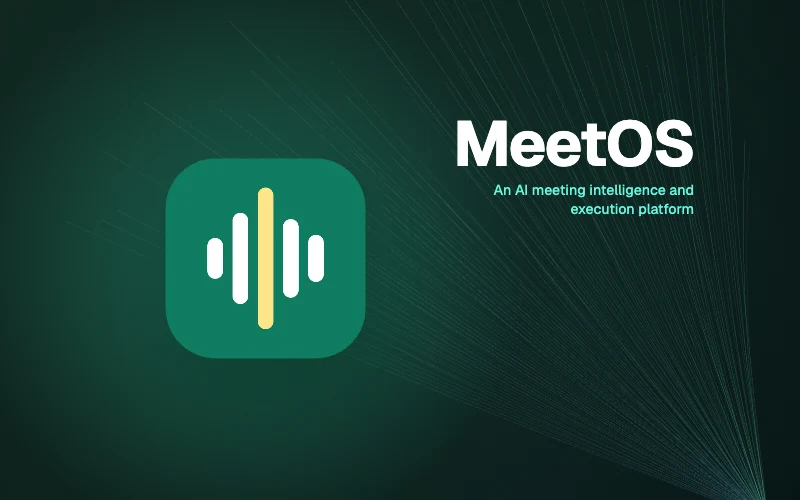
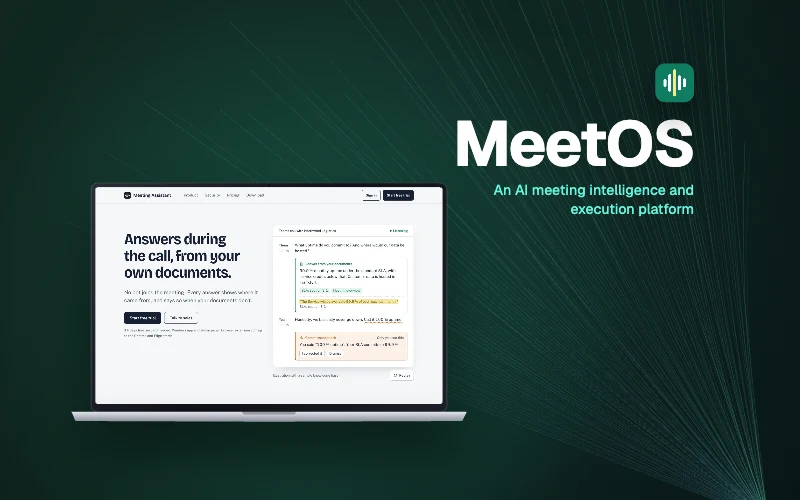
MeetOS: product screenshot cover, five modes, in-call answers
- Cover, card and share image now show the product on a laptop (from the
  supplied screenshot) with the MeetOS app icon above the title; the
  composer can add an app-icon logo to device covers (mockup.logo).
- Features list the five modes: sales call, team meeting, customer
  support, interview preparation and live interpreter.
- Approach mentions answers from the company's own documents with
  sources, the private commitment check and that no bot joins the call.

Changed region(s): [[0.0938, 0.3, 0.5938, 0.9], [0.8125, 0.12, 0.875, 0.21]]

diff --git a/ru/work/meetos/index.html b/ru/work/meetos/index.html
@@ -27,12 +27,12 @@
 <meta property="og:image:type" content="image/jpeg">
 <meta property="og:image:width" content="1200">
 <meta property="og:image:height" content="630">
-<meta property="og:image:alt" content="Логотип MeetOS — звуковая волна на зелёной иконке приложения">
+<meta property="og:image:alt" content="Приложение MeetOS на ноутбуке отвечает на вопрос по документам компании во время звонка в Teams">
 <meta name="twitter:card" content="summary_large_image">
 <meta name="twitter:title" content="MeetOS — ИИ-платформа, которая превращает встречи в результат">
 <meta name="twitter:description" content="MeetOS — ИИ-платформа, которая делает встречи — внутренние и с клиентами — результативными. Расширение браузера и приложение для Windows подключаются к…">
 <meta name="twitter:image" content="https://ailovedigital.com/assets/images/work/meetos/og.jpg">
-<meta name="twitter:image:alt" content="Логотип MeetOS — звуковая волна на зелёной иконке приложения">
+<meta name="twitter:image:alt" content="Приложение MeetOS на ноутбуке отвечает на вопрос по документам компании во время звонка в Teams">
 <link rel="icon" href="../../../assets/icons/favicon.svg" type="image/svg+xml">
 <link rel="icon" href="../../../assets/icons/favicon-32.png" sizes="32x32" type="image/png">
 <link rel="icon" href="../../../assets/icons/favicon-48.png" sizes="48x48" type="image/png">
@@ -225,7 +225,7 @@
 </header>
 
 <div class="case-cover">
-  <img src="../../../assets/images/work/meetos/cover.webp" width="1600" height="1000" alt="Логотип MeetOS — звуковая волна на зелёной иконке приложения" fetchpriority="high" decoding="async">
+  <img src="../../../assets/images/work/meetos/cover.webp" width="1600" height="1000" alt="Приложение MeetOS на ноутбуке отвечает на вопрос по документам компании во время звонка в Teams" fetchpriority="high" decoding="async">
 </div>
 
 <section class="ald-stats-band" aria-label="MeetOS в цифрах">
@@ -248,7 +248,7 @@
     </div>
     <div class="case-block case-rv">
       <h2 class="ald-eyebrow has-idx case-label"><span class="ald-idx">03</span> / Наш подход</h2>
-      <p class="case-text">MeetOS охватывает весь цикл встречи. До звонка готовит контекст об участниках и теме; во время звонка расширение браузера или приложение для Windows — оно захватывает звук звонка и микрофон — передают поток в многоязычную расшифровку и режим живого переводчика; после — кратко излагает решения и договорённости, выделяет задачи, назначает ответственных и ведёт сроки, напоминания и контроль исполнения в инструментах, которыми команда уже пользуется.</p>
+      <p class="case-text">MeetOS охватывает весь цикл встречи. До звонка готовит контекст об участниках и теме. Во время звонка расширение браузера или приложение для Windows — оно захватывает звук звонка и микрофон, поэтому никакой бот к встрече не подключается, — передают поток в многоязычную расшифровку; ассистент отвечает на вопросы по документам компании, показывает источник каждого ответа и незаметно для собеседника предупреждает, если сказанное им противоречит документам. После встречи кратко излагает решения и договорённости, выделяет задачи, назначает ответственных и ведёт сроки, напоминания и контроль исполнения в инструментах, которыми команда уже пользуется.</p>
     </div>
   </div>
 </section>
@@ -273,7 +273,7 @@
     <ul class="case-features">
       <li class="ald-value case-rv"><div class="case-feature-n">01</div><h3 class="ald-value-t">Работает с любым звонком</h3><p class="ald-value-d">Google Meet, Zoom и Microsoft Teams — через расширение браузера на Windows, Mac, Linux и Chromebook; приложение для Windows захватывает звук звонка и микрофон. Отдельное приложение для Mac в планах.</p></li>
       <li class="ald-value case-rv"><div class="case-feature-n">02</div><h3 class="ald-value-t">Многоязычная расшифровка</h3><p class="ald-value-d">Расшифровывает звонки на английском, испанском, французском, немецком, русском, арабском и других языках; в регионе США поддерживаются азербайджанский и турецкий.</p></li>
-      <li class="ald-value case-rv"><div class="case-feature-n">03</div><h3 class="ald-value-t">Режим живого переводчика</h3><p class="ald-value-d">Переводит разговор в реальном времени, чтобы каждый участник следил за ним на своём языке.</p></li>
+      <li class="ald-value case-rv"><div class="case-feature-n">03</div><h3 class="ald-value-t">Пять режимов встреч</h3><p class="ald-value-d">Звонок продаж, командная встреча, поддержка клиентов, подготовка к собеседованию и живой переводчик, который переводит разговор в реальном времени.</p></li>
       <li class="ald-value case-rv"><div class="case-feature-n">04</div><h3 class="ald-value-t">Итоги и решения</h3><p class="ald-value-d">Кратко излагает основное обсуждение, решения и договорённости и ведёт их журнал с ответственными и статусом.</p></li>
       <li class="ald-value case-rv"><div class="case-feature-n">05</div><h3 class="ald-value-t">Задачи в ваши инструменты</h3><p class="ald-value-d">Отправляет задачи и напоминания в Slack, Teams, Jira, Asana, вебхуки и календари Google и Microsoft; HubSpot и Salesforce подключаются вместе с пилотом.</p></li>
       <li class="ald-value case-rv"><div class="case-feature-n">06</div><h3 class="ald-value-t">Конфиденциальность по умолчанию</h3><p class="ald-value-d">Персональные данные на азербайджанском — ФИН, IBAN и номера телефонов — маскируются автоматически.</p></li>

diff --git a/az/work/meetos/index.html b/az/work/meetos/index.html
@@ -27,12 +27,12 @@
 <meta property="og:image:type" content="image/jpeg">
 <meta property="og:image:width" content="1200">
 <meta property="og:image:height" content="630">
-<meta property="og:image:alt" content="MeetOS loqosu — yaşıl tətbiq ikonunda səs dalğası işarəsi">
+<meta property="og:image:alt" content="Noutbukda MeetOS proqramı Teams zəngi zamanı şirkət sənədlərindən suala cavab verir">
 <meta name="twitter:card" content="summary_large_image">
 <meta name="twitter:title" content="MeetOS — Görüşləri real biznes nəticələrinə çevirən platforma">
 <meta name="twitter:description" content="MeetOS şirkətdaxili və müştərilərlə keçirilən görüşləri nəticəli edən süni intellekt platformasıdır. Brauzer əlavəsi və Windows proqramı Google Meet, Zoom…">
 <meta name="twitter:image" content="https://ailovedigital.com/assets/images/work/meetos/og.jpg">
-<meta name="twitter:image:alt" content="MeetOS loqosu — yaşıl tətbiq ikonunda səs dalğası işarəsi">
+<meta name="twitter:image:alt" content="Noutbukda MeetOS proqramı Teams zəngi zamanı şirkət sənədlərindən suala cavab verir">
 <link rel="icon" href="../../../assets/icons/favicon.svg" type="image/svg+xml">
 <link rel="icon" href="../../../assets/icons/favicon-32.png" sizes="32x32" type="image/png">
 <link rel="icon" href="../../../assets/icons/favicon-48.png" sizes="48x48" type="image/png">
@@ -225,7 +225,7 @@
 </header>
 
 <div class="case-cover">
-  <img src="../../../assets/images/work/meetos/cover.webp" width="1600" height="1000" alt="MeetOS loqosu — yaşıl tətbiq ikonunda səs dalğası işarəsi" fetchpriority="high" decoding="async">
+  <img src="../../../assets/images/work/meetos/cover.webp" width="1600" height="1000" alt="Noutbukda MeetOS proqramı Teams zəngi zamanı şirkət sənədlərindən suala cavab verir" fetchpriority="high" decoding="async">
 </div>
 
 <section class="ald-stats-band" aria-label="MeetOS rəqəmlərlə">
@@ -248,7 +248,7 @@
     </div>
     <div class="case-block case-rv">
       <h2 class="ald-eyebrow has-idx case-label"><span class="ald-idx">03</span> / Yanaşmamız</h2>
-      <p class="case-text">MeetOS görüşün bütün dövrünü əhatə edir. Zəngdən əvvəl iştirakçılar və mövzu üzrə kontekst hazırlayır; zəng zamanı brauzer əlavəsi və ya Windows proqramı — o, zəngin səsini və mikrofonu tutur — çoxdilli transkripsiyaya və canlı tərcüməçi rejiminə ötürür; sonra qərarları və razılaşmaları xülasə edir, tapşırıqları çıxarır, məsul şəxsləri təyin edir və deadline, xatırlatma və follow-up proseslərini komandanın artıq istifadə etdiyi alətlərdə aparır.</p>
+      <p class="case-text">MeetOS görüşün bütün dövrünü əhatə edir. Zəngdən əvvəl iştirakçılar və mövzu üzrə kontekst hazırlayır. Zəng zamanı brauzer əlavəsi və ya Windows proqramı — o, zəngin səsini və mikrofonu tutur, ona görə görüşə heç bir bot qoşulmur — çoxdilli transkripsiyaya ötürür; köməkçi sualları şirkətin öz sənədlərinə əsasən cavablandırır, hər cavabın mənbəyini göstərir və deyilən söz sənədlərə zidd olanda bunu yalnız sizə göstərərək xəbərdar edir. Görüşdən sonra qərarları və razılaşmaları xülasə edir, tapşırıqları çıxarır, məsul şəxsləri təyin edir və deadline, xatırlatma və follow-up proseslərini komandanın artıq istifadə etdiyi alətlərdə aparır.</p>
     </div>
   </div>
 </section>
@@ -273,7 +273,7 @@
     <ul class="case-features">
       <li class="ald-value case-rv"><div class="case-feature-n">01</div><h3 class="ald-value-t">Hər zənglə işləyir</h3><p class="ald-value-d">Google Meet, Zoom və Microsoft Teams — Windows, Mac, Linux və Chromebook-da brauzer əlavəsi ilə; Windows proqramı zəngin səsini və mikrofonu tutur. Mac üçün ayrıca proqram planlaşdırılır.</p></li>
       <li class="ald-value case-rv"><div class="case-feature-n">02</div><h3 class="ald-value-t">Çoxdilli transkripsiya</h3><p class="ald-value-d">Zəngləri ingilis, ispan, fransız, alman, rus, ərəb və digər dillərdə transkripsiya edir; ABŞ regionunda Azərbaycan və türk dilləri də dəstəklənir.</p></li>
-      <li class="ald-value case-rv"><div class="case-feature-n">03</div><h3 class="ald-value-t">Canlı tərcüməçi rejimi</h3><p class="ald-value-d">Söhbəti real vaxtda tərcümə edir ki, hər iştirakçı onu öz dilində izləyə bilsin.</p></li>
+      <li class="ald-value case-rv"><div class="case-feature-n">03</div><h3 class="ald-value-t">Beş görüş rejimi</h3><p class="ald-value-d">Satış zəngi, komanda görüşü, müştəri dəstəyi, müsahibə hazırlığı və söhbəti real vaxtda tərcümə edən canlı tərcüməçi.</p></li>
       <li class="ald-value case-rv"><div class="case-feature-n">04</div><h3 class="ald-value-t">Xülasə və qərarlar</h3><p class="ald-value-d">Əsas müzakirələri, qərarları və razılaşmaları xülasə edir və onların məsul şəxs və vəziyyətlə jurnalını aparır.</p></li>
       <li class="ald-value case-rv"><div class="case-feature-n">05</div><h3 class="ald-value-t">Tapşırıqlar alətlərinizə</h3><p class="ald-value-d">Tapşırıqları və xatırlatmaları Slack, Teams, Jira, Asana, webhook və Google və Microsoft təqvimlərinə göndərir; HubSpot və Salesforce pilotla aktivləşir.</p></li>
       <li class="ald-value case-rv"><div class="case-feature-n">06</div><h3 class="ald-value-t">Defolt olaraq məxfilik</h3><p class="ald-value-d">Azərbaycan dilində şəxsi məlumatlar — FİN, IBAN və telefon nömrələri — avtomatik maskalanır.</p></li>

diff --git a/work/meetos/index.html b/work/meetos/index.html
@@ -27,12 +27,12 @@
 <meta property="og:image:type" content="image/jpeg">
 <meta property="og:image:width" content="1200">
 <meta property="og:image:height" content="630">
-<meta property="og:image:alt" content="The MeetOS logo — a sound-wave mark on a green app icon">
+<meta property="og:image:alt" content="The MeetOS app on a laptop, answering a question from the company's documents during a Teams call">
 <meta name="twitter:card" content="summary_large_image">
 <meta name="twitter:title" content="MeetOS — AI platform that turns meetings into real business results">
 <meta name="twitter:description" content="MeetOS is an AI platform that makes meetings — internal ones and those with clients — produce results. A browser extension and a Windows app capture…">
 <meta name="twitter:image" content="https://ailovedigital.com/assets/images/work/meetos/og.jpg">
-<meta name="twitter:image:alt" content="The MeetOS logo — a sound-wave mark on a green app icon">
+<meta name="twitter:image:alt" content="The MeetOS app on a laptop, answering a question from the company's documents during a Teams call">
 <link rel="icon" href="../../assets/icons/favicon.svg" type="image/svg+xml">
 <link rel="icon" href="../../assets/icons/favicon-32.png" sizes="32x32" type="image/png">
 <link rel="icon" href="../../assets/icons/favicon-48.png" sizes="48x48" type="image/png">
@@ -225,7 +225,7 @@
 </header>
 
 <div class="case-cover">
-  <img src="../../assets/images/work/meetos/cover.webp" width="1600" height="1000" alt="The MeetOS logo — a sound-wave mark on a green app icon" fetchpriority="high" decoding="async">
+  <img src="../../assets/images/work/meetos/cover.webp" width="1600" height="1000" alt="The MeetOS app on a laptop, answering a question from the company's documents during a Teams call" fetchpriority="high" decoding="async">
 </div>
 
 <section class="ald-stats-band" aria-label="MeetOS in numbers">
@@ -248,7 +248,7 @@
     </div>
     <div class="case-block case-rv">
       <h2 class="ald-eyebrow has-idx case-label"><span class="ald-idx">03</span> / Our approach</h2>
-      <p class="case-text">MeetOS covers the whole meeting cycle. Before a call it prepares context on the participants and the topic; during it, the browser extension or the Windows app — which captures the call audio and the microphone — feeds multilingual transcription and a live interpreter mode; afterwards it summarises decisions and agreements, extracts tasks, assigns owners and runs deadlines, reminders and follow-ups in the tools the team already uses.</p>
+      <p class="case-text">MeetOS covers the whole meeting cycle. Before a call it prepares context on the participants and the topic. During it, the browser extension or the Windows app — which captures the call audio and the microphone, so no bot joins the meeting — feeds multilingual transcription; the assistant answers questions from the company's own documents, shows the source of every answer and privately flags a statement that contradicts them. Afterwards it summarises decisions and agreements, extracts tasks, assigns owners and runs deadlines, reminders and follow-ups in the tools the team already uses.</p>
     </div>
   </div>
 </section>
@@ -273,7 +273,7 @@
     <ul class="case-features">
       <li class="ald-value case-rv"><div class="case-feature-n">01</div><h3 class="ald-value-t">Works with every call</h3><p class="ald-value-d">Google Meet, Zoom and Microsoft Teams through a browser extension on Windows, Mac, Linux and Chromebook; the Windows app captures the call audio and the microphone. A dedicated Mac app is planned.</p></li>
       <li class="ald-value case-rv"><div class="case-feature-n">02</div><h3 class="ald-value-t">Multilingual transcription</h3><p class="ald-value-d">Transcribes calls in English, Spanish, French, German, Russian, Arabic and more; Azerbaijani and Turkish are supported in the US region.</p></li>
-      <li class="ald-value case-rv"><div class="case-feature-n">03</div><h3 class="ald-value-t">Live interpreter mode</h3><p class="ald-value-d">Translates the conversation as it happens, so every participant can follow in their own language.</p></li>
+      <li class="ald-value case-rv"><div class="case-feature-n">03</div><h3 class="ald-value-t">Five meeting modes</h3><p class="ald-value-d">Sales call, team meeting, customer support, interview preparation and a live interpreter that translates the conversation as it happens.</p></li>
       <li class="ald-value case-rv"><div class="case-feature-n">04</div><h3 class="ald-value-t">Summaries and decisions</h3><p class="ald-value-d">Summarises the key discussion, decisions and agreements and keeps a log of them with owners and status.</p></li>
       <li class="ald-value case-rv"><div class="case-feature-n">05</div><h3 class="ald-value-t">Tasks into your tools</h3><p class="ald-value-d">Sends tasks and follow-ups to Slack, Teams, Jira, Asana, webhooks and Google or Microsoft calendars; HubSpot and Salesforce switch on with the pilot.</p></li>
       <li class="ald-value case-rv"><div class="case-feature-n">06</div><h3 class="ald-value-t">Privacy by default</h3><p class="ald-value-d">Personal data in Azerbaijani — national ID (FİN), IBAN and phone numbers — is masked automatically.</p></li>

diff --git a/tools/covers/compose.js b/tools/covers/compose.js
@@ -239,7 +239,8 @@ export async function prepare(p) {
   if (m.tablets) for (let i = 0; i < m.tablets.length; i++) src['tablet' + i] = await pick(m.tablets[i]);
   if (m.phones) for (let i = 0; i < m.phones.length; i++) src['phone' + i] = await pick(m.phones[i]);
   const all = Object.values(src).filter(Boolean);
-  return { src, hue: m.hue ?? dominantHue(all), set: deviceSet(m) };
+  const logo = m.logo ? await load(`../../assets/images/work/${p.slug}/${m.logo}`) : null; // optional app icon above the title
+  return { src, hue: m.hue ?? dominantHue(all), set: deviceSet(m), logo, radius: m.radius || 0.25 };
 }
 
 /**
@@ -261,6 +262,12 @@ export function render(canvas, p, prep, index, { width, scale, content = 1 }) {
   ctx.fillStyle = glow; ctx.fillRect(0, 0, W, H);
   ctx.save(); ctx.translate(W / 2, H / 2); ctx.scale(content, content); ctx.translate(-W / 2, -H / 2);
   title(ctx, p, W, pal, flip);
+  if (prep.logo) {
+    const s = 92, x = flip ? W - 100 - s : 100, y = 56, r = s * prep.radius;
+    ctx.save(); ctx.shadowColor = 'rgba(0,0,0,.45)'; ctx.shadowBlur = 30; ctx.shadowOffsetY = 12;
+    path(ctx, x, y, s, s, r); ctx.fillStyle = hsl(pal.h, 60, 30); ctx.fill(); ctx.restore();
+    ctx.save(); path(ctx, x + 0.5, y + 0.5, s - 1, s - 1, r); ctx.clip(); ctx.drawImage(prep.logo, x, y, s, s); ctx.restore();
+  }
   const items = layout(prep.set, W);
   // far-to-near order as listed; for flipped covers mirror the positions, not the screenshots
   for (const [kind, key, x, y, w] of items) {

diff --git a/ru/work/agentos/index.html b/ru/work/agentos/index.html
@@ -337,7 +337,7 @@
       </div>
     </li>
     <li class="hub-card case-rv">
-      <div class="hub-media"><img src="../../../assets/images/work/meetos.webp" width="800" height="500" alt="Логотип MeetOS — звуковая волна на зелёной иконке приложения" loading="lazy" decoding="async"></div>
+      <div class="hub-media"><img src="../../../assets/images/work/meetos.webp" width="800" height="500" alt="Приложение MeetOS на ноутбуке отвечает на вопрос по документам компании во время звонка в Teams" loading="lazy" decoding="async"></div>
       <div class="hub-body">
         <span class="ald-work-num">04</span>
         <h3 class="hub-name"><a href="../../../ru/work/meetos/" class="hub-link" lang="en">MeetOS</a></h3>

diff --git a/ru/work/dailoq/index.html b/ru/work/dailoq/index.html
@@ -341,7 +341,7 @@
       </div>
     </li>
     <li class="hub-card case-rv">
-      <div class="hub-media"><img src="../../../assets/images/work/meetos.webp" width="800" height="500" alt="Логотип MeetOS — звуковая волна на зелёной иконке приложения" loading="lazy" decoding="async"></div>
+      <div class="hub-media"><img src="../../../assets/images/work/meetos.webp" width="800" height="500" alt="Приложение MeetOS на ноутбуке отвечает на вопрос по документам компании во время звонка в Teams" loading="lazy" decoding="async"></div>
       <div class="hub-body">
         <span class="ald-work-num">04</span>
         <h3 class="hub-name"><a href="../../../ru/work/meetos/" class="hub-link" lang="en">MeetOS</a></h3>

diff --git a/ru/work/rootos/index.html b/ru/work/rootos/index.html
@@ -337,7 +337,7 @@
       </div>
     </li>
     <li class="hub-card case-rv">
-      <div class="hub-media"><img src="../../../assets/images/work/meetos.webp" width="800" height="500" alt="Логотип MeetOS — звуковая волна на зелёной иконке приложения" loading="lazy" decoding="async"></div>
+      <div class="hub-media"><img src="../../../assets/images/work/meetos.webp" width="800" height="500" alt="Приложение MeetOS на ноутбуке отвечает на вопрос по документам компании во время звонка в Teams" loading="lazy" decoding="async"></div>
       <div class="hub-body">
         <span class="ald-work-num">04</span>
         <h3 class="hub-name"><a href="../../../ru/work/meetos/" class="hub-link" lang="en">MeetOS</a></h3>

diff --git a/ru/work/index.html b/ru/work/index.html
@@ -358,7 +358,7 @@
       </div>
     </li>
     <li class="hub-card case-rv">
-      <div class="hub-media"><img src="../../assets/images/work/meetos.webp" width="800" height="500" alt="Логотип MeetOS — звуковая волна на зелёной иконке приложения" loading="lazy" decoding="async"></div>
+      <div class="hub-media"><img src="../../assets/images/work/meetos.webp" width="800" height="500" alt="Приложение MeetOS на ноутбуке отвечает на вопрос по документам компании во время звонка в Teams" loading="lazy" decoding="async"></div>
       <div class="hub-body">
         <span class="ald-work-num">04</span>
         <h2 class="hub-name"><a href="../../ru/work/meetos/" class="hub-link" lang="en">MeetOS</a></h2>

diff --git a/az/work/agentos/index.html b/az/work/agentos/index.html
@@ -337,7 +337,7 @@
       </div>
     </li>
     <li class="hub-card case-rv">
-      <div class="hub-media"><img src="../../../assets/images/work/meetos.webp" width="800" height="500" alt="MeetOS loqosu — yaşıl tətbiq ikonunda səs dalğası işarəsi" loading="lazy" decoding="async"></div>
+      <div class="hub-media"><img src="../../../assets/images/work/meetos.webp" width="800" height="500" alt="Noutbukda MeetOS proqramı Teams zəngi zamanı şirkət sənədlərindən suala cavab verir" loading="lazy" decoding="async"></div>
       <div class="hub-body">
         <span class="ald-work-num">04</span>
         <h3 class="hub-name"><a href="../../../az/work/meetos/" class="hub-link" lang="en">MeetOS</a></h3>

diff --git a/az/work/dailoq/index.html b/az/work/dailoq/index.html
@@ -341,7 +341,7 @@
       </div>
     </li>
     <li class="hub-card case-rv">
-      <div class="hub-media"><img src="../../../assets/images/work/meetos.webp" width="800" height="500" alt="MeetOS loqosu — yaşıl tətbiq ikonunda səs dalğası işarəsi" loading="lazy" decoding="async"></div>
+      <div class="hub-media"><img src="../../../assets/images/work/meetos.webp" width="800" height="500" alt="Noutbukda MeetOS proqramı Teams zəngi zamanı şirkət sənədlərindən suala cavab verir" loading="lazy" decoding="async"></div>
       <div class="hub-body">
         <span class="ald-work-num">04</span>
         <h3 class="hub-name"><a href="../../../az/work/meetos/" class="hub-link" lang="en">MeetOS</a></h3>

diff --git a/az/work/rootos/index.html b/az/work/rootos/index.html
@@ -337,7 +337,7 @@
       </div>
     </li>
     <li class="hub-card case-rv">
-      <div class="hub-media"><img src="../../../assets/images/work/meetos.webp" width="800" height="500" alt="MeetOS loqosu — yaşıl tətbiq ikonunda səs dalğası işarəsi" loading="lazy" decoding="async"></div>
+      <div class="hub-media"><img src="../../../assets/images/work/meetos.webp" width="800" height="500" alt="Noutbukda MeetOS proqramı Teams zəngi zamanı şirkət sənədlərindən suala cavab verir" loading="lazy" decoding="async"></div>
       <div class="hub-body">
         <span class="ald-work-num">04</span>
         <h3 class="hub-name"><a href="../../../az/work/meetos/" class="hub-link" lang="en">MeetOS</a></h3>

diff --git a/az/work/index.html b/az/work/index.html
@@ -358,7 +358,7 @@
       </div>
     </li>
     <li class="hub-card case-rv">
-      <div class="hub-media"><img src="../../assets/images/work/meetos.webp" width="800" height="500" alt="MeetOS loqosu — yaşıl tətbiq ikonunda səs dalğası işarəsi" loading="lazy" decoding="async"></div>
+      <div class="hub-media"><img src="../../assets/images/work/meetos.webp" width="800" height="500" alt="Noutbukda MeetOS proqramı Teams zəngi zamanı şirkət sənədlərindən suala cavab verir" loading="lazy" decoding="async"></div>
       <div class="hub-body">
         <span class="ald-work-num">04</span>
         <h2 class="hub-name"><a href="../../az/work/meetos/" class="hub-link" lang="en">MeetOS</a></h2>
